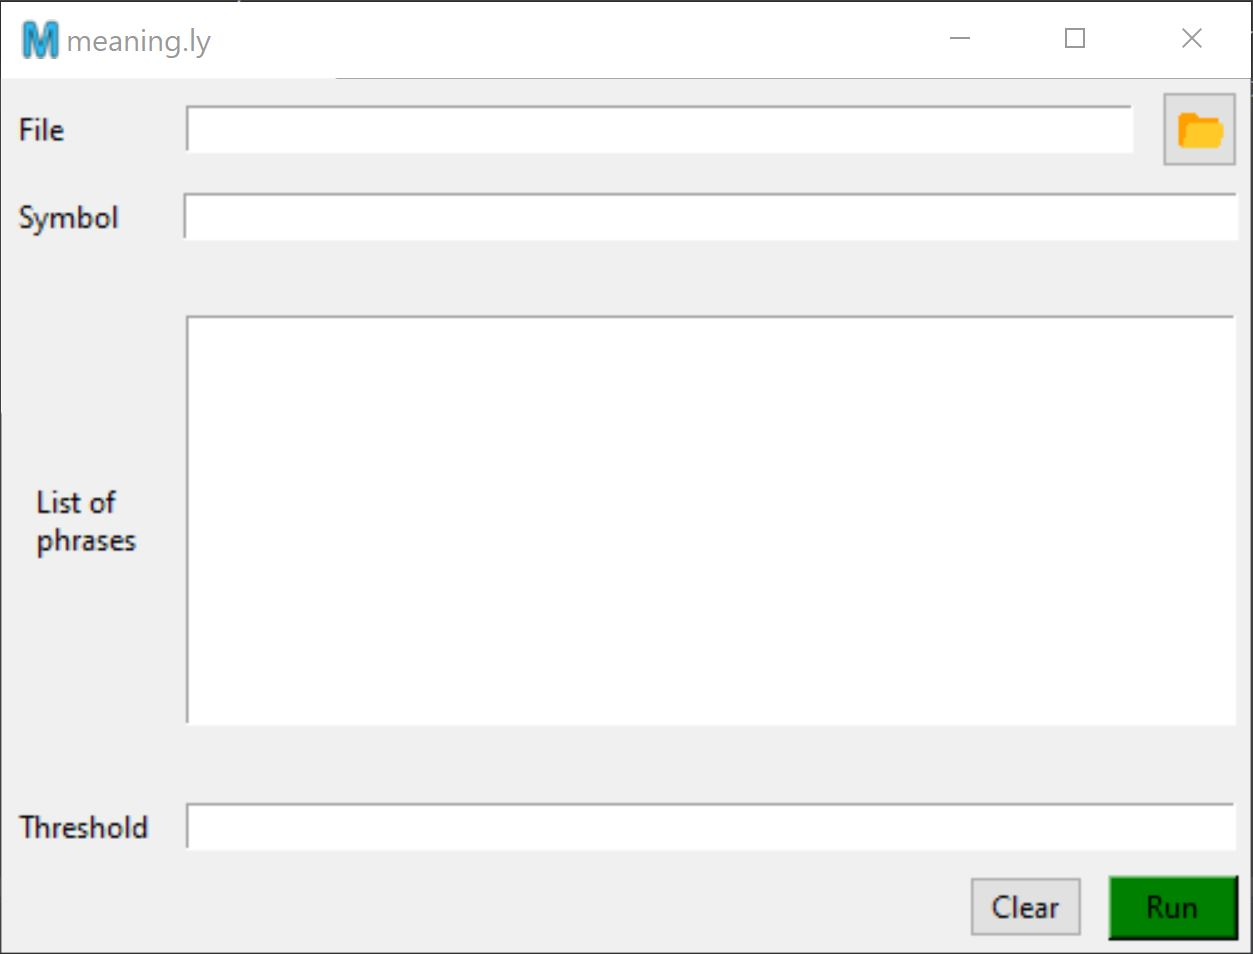
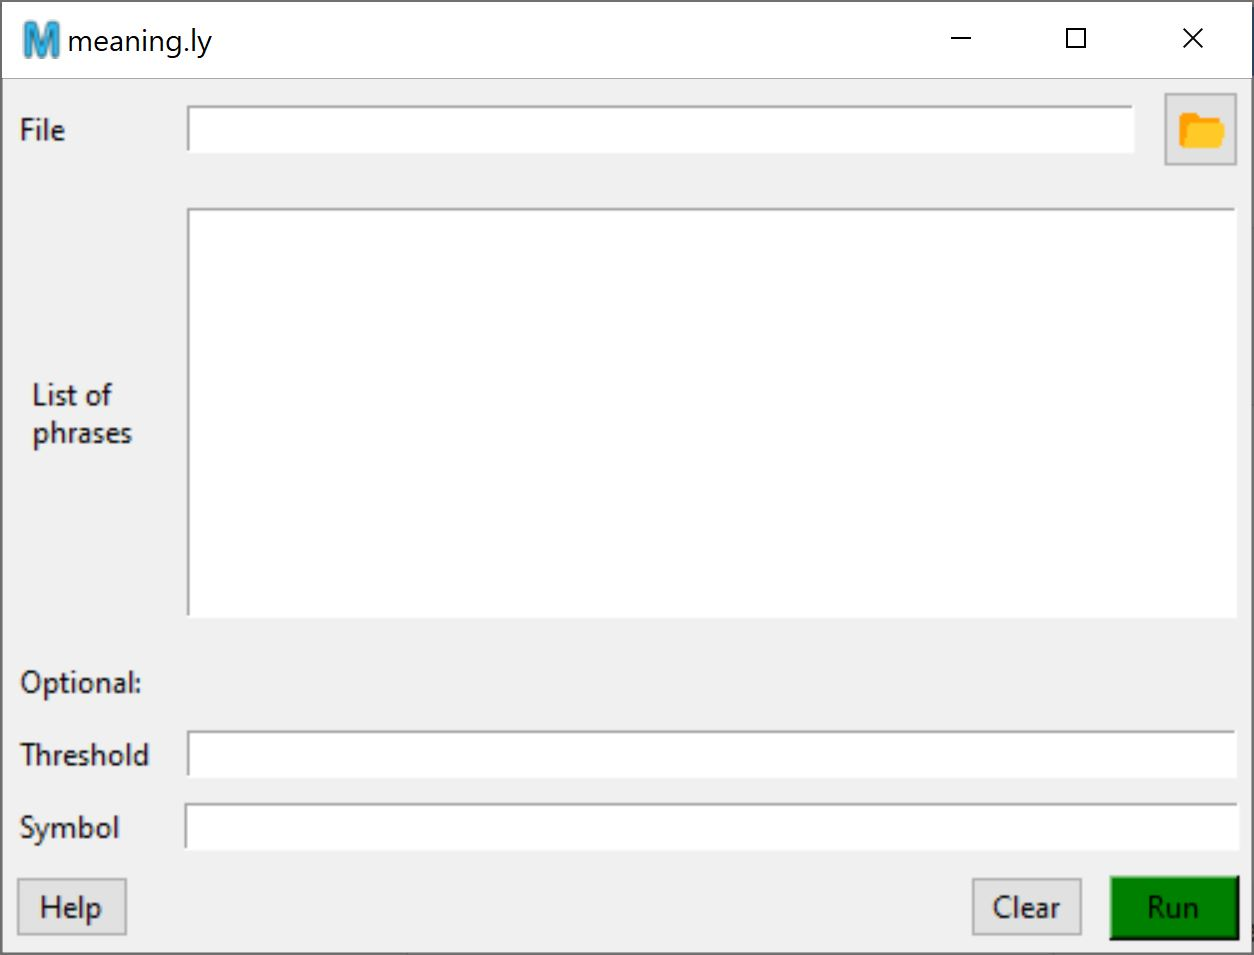
Updated README for new UI and added help menu to GUI

diff --git a/gui.py b/gui.py
@@ -1,5 +1,5 @@
 import tkinter as tk
-from tkinter import Tk, BOTH, X, LEFT, RIGHT, PhotoImage, filedialog, END, Message, RAISED
+from tkinter import Tk, BOTH, X, LEFT, RIGHT, PhotoImage, filedialog, END, Message
 from tkinter.ttk import Frame, Label, Button
 import meaningly as mn
 from PIL import ImageTk, Image
@@ -9,17 +9,41 @@ from PIL import ImageTk, Image
 class Splash(tk.Toplevel):
     def __init__(self, parent):
         tk.Toplevel.__init__(self, parent)
+        self.iconbitmap("assets/letterm.ico")
         self.title("Loading")
         loadphoto = ImageTk.PhotoImage(Image.open('assets/3147390.jpg').resize((400, 400)))
         image_label = tk.Label(self, image=loadphoto)
         image_label.image = loadphoto
         image_label.pack()
 
+        self.update()  # required to make window show before the program gets to the mainloop
 
-        ## required to make window show before the program gets to the mainloop
-        self.update()
 
-#Main app
+def popup_bonus():
+    win = tk.Toplevel()
+    win.geometry("300x300+120+120")
+    win.iconbitmap("assets/letterm.ico")
+    win.wm_title("Help")
+    win.resizable(False, False)
+    frame_popup = Frame(win)
+    frame_popup.pack(fill=BOTH)
+
+    help_text = "File: The path to the transcript file. The file must be a Word doc." \
+                "\n\nList of phrases: List of sentences to search the text for. Include " \
+                "all punctuation and start each new sentence one a new line. \n\nThreshold: When given a threshold, " \
+                "the program will only display sentences that are correlated to the input phrases above the given " \
+                "value. Default is 0. Must be a decimal value between 0 and 1.\n\nSymbol: Not implemented yet."
+
+    lbl_phrases = Message(frame_popup, text=help_text, width=280)
+    lbl_phrases.pack(side=LEFT, padx=(5, 9), pady=7)
+
+    frame_okay = Frame(win)
+    frame_okay.pack(side='bottom', fill=BOTH)
+    b = Button(frame_okay, text="Okay", command=win.destroy)
+    b.pack(pady=(5, 35))
+
+
+# Main app
 class UserInterface(Frame):
 
     def __init__(self):
@@ -40,8 +64,7 @@ class UserInterface(Frame):
     def set_file(self, filename):
         self.fileName = filename
 
-    # Function for clearing
-    # the inputs
+    # Function for clearing the inputs
     def clear(self):
         for entry in self.listOfEntries:
             if isinstance(entry, tk.Entry):
@@ -49,10 +72,9 @@ class UserInterface(Frame):
             else:
                 entry.delete('1.0', END)
             entry.config(highlightbackground='SystemButtonFace')
-        #self.fileName = None
+        # self.fileName = None
 
-    # Function for opening the
-    # file explorer window
+    # Function for opening the file explorer window
     def browseFiles(self, e):
         filename = filedialog.askopenfilename(initialdir="/",
                                               title="Select a File",
@@ -68,8 +90,8 @@ class UserInterface(Frame):
 
         # Assign the entries to their respective variables
         self.fileName = self.listOfEntries[0].get()
-        self.listOfPhrases = self.listOfEntries[2].get('1.0', END)
-        self.threshold = self.listOfEntries[3].get()
+        self.listOfPhrases = self.listOfEntries[1].get('1.0', END)
+        self.threshold = self.listOfEntries[2].get()
 
         # If there's no entry for file, show error. Otherwise clear any previous errors.
         if len(self.fileName) == 0:
@@ -79,22 +101,22 @@ class UserInterface(Frame):
 
         # If there's no entry for list of phrases, show error. Otherwise clear any previous errors.
         if len(self.listOfPhrases) == 1:
-            self.listOfEntries[2].config(highlightbackground='red')
+            self.listOfEntries[1].config(highlightbackground='red')
         else:
-            self.listOfEntries[2].config(highlightbackground='SystemButtonFace')
+            self.listOfEntries[1].config(highlightbackground='SystemButtonFace')
 
-        # TODO: Add an option to choose between positive correlation, negative correlation, or both.
+        # TODO: (Feature) Add an option to choose between positive correlation, negative correlation, or both.
         # If there's an entry for threshold, check to see if it's a number and if that number is between 0 and 1. If
         # there is no entry then set threshold to default value (0)
-        if not(len(self.threshold) == 0):
+        if not (len(self.threshold) == 0):
             try:
                 self.threshold = float(self.threshold)
-                if not(0 <= self.threshold <= 1):
-                    self.listOfEntries[3].config(highlightbackground='red')
+                if not (0 <= self.threshold <= 1):
+                    self.listOfEntries[2].config(highlightbackground='red')
                 else:
-                    self.listOfEntries[3].config(highlightbackground='SystemButtonFace')
+                    self.listOfEntries[2].config(highlightbackground='SystemButtonFace')
             except ValueError:
-                self.listOfEntries[3].config(highlightbackground='red')
+                self.listOfEntries[2].config(highlightbackground='red')
                 return
         else:
             self.threshold = 0
@@ -114,61 +136,75 @@ class UserInterface(Frame):
         self.master.title("meaning.ly")
         self.pack(fill=BOTH, expand=True)
 
-        frame1 = Frame(self)
-        frame1.pack(fill=X)
+        # File input
+        frame_file = Frame(self)
+        frame_file.pack(fill=X)
 
-        lbl1 = Label(frame1, text="File", width=9)
-        lbl1.pack(side=LEFT, padx=5, pady=5)
+        lbl_file = Label(frame_file, text="File", width=9)
+        lbl_file.pack(side=LEFT, padx=5, pady=5)
 
         photo = PhotoImage(file=r"assets/foldericon.png")
         photo2 = photo.subsample(25, 25)
 
-        entry1 = tk.Entry(frame1, highlightthickness=1)
+        entry_file = tk.Entry(frame_file, highlightthickness=1)
 
-        button = Button(frame1, image=photo2, width=6, command=lambda: self.browseFiles(entry1))
-        button.pack(side=RIGHT, padx=5, pady=5)
-        button.image = photo2
-        # button.grid(row=1, column=1)
-        entry1.pack(fill=X, padx=5, pady=5, expand=True)
-        self.listOfEntries.append(entry1)
+        button_file = Button(frame_file, image=photo2, width=6, command=lambda: self.browseFiles(entry_file))
+        button_file.pack(side=RIGHT, padx=5, pady=5)
+        button_file.image = photo2
+        entry_file.pack(fill=X, padx=5, pady=5, expand=True)
+        self.listOfEntries.append(entry_file)
 
-        frame2 = Frame(self)
-        frame2.pack(fill=X)
+        # List of phrases input
+        frame_phrases = Frame(self)
+        frame_phrases.pack(fill=X, expand=True)
 
-        lbl2 = Label(frame2, text="Symbol", width=9)
-        lbl2.pack(side=LEFT, padx=5, pady=5)
+        lbl_phrases = Message(frame_phrases, text="List of phrases", width=42)
+        lbl_phrases.pack(side=LEFT, padx=(5, 9), pady=7)
 
-        entry2 = tk.Entry(frame2)
-        entry2.pack(fill=X, padx=5, expand=True)
-        self.listOfEntries.append(entry2)
+        entry_phrases = tk.Text(frame_phrases, height=10, highlightthickness=1)
+        entry_phrases.pack(fill=BOTH, padx=5, pady=7)
+        self.listOfEntries.append(entry_phrases)
 
-        frame3 = Frame(self)
-        frame3.pack(fill=X, expand=True)
+        # Options label
+        frame_opt = Frame(self)
+        frame_opt.pack(fill=X)
 
-        lbl3 = Message(frame3, text="List of phrases", width=42)
-        lbl3.pack(side=LEFT, padx=7, pady=7)
+        lbl_opt = Label(frame_opt, text="Optional:", width=9)
+        lbl_opt.pack(side=LEFT, padx=5, pady=5)
 
-        entry3 = tk.Text(frame3, height=10, highlightthickness=1)
-        entry3.pack(fill=BOTH, padx=5, pady=7)
-        self.listOfEntries.append(entry3)
+        # Threshold input
+        frame_thresh = Frame(self)
+        frame_thresh.pack(fill=X)
 
-        frame4 = Frame(self)
-        frame4.pack(fill=X)
+        lbl_thresh = Label(frame_thresh, text="Threshold", width=9)
+        lbl_thresh.pack(side=LEFT, padx=(5, 5), pady=5)
 
-        lbl4 = Label(frame4, text="Threshold", width=9)
-        lbl4.pack(side=LEFT, padx=5, pady=5)
+        entry_thresh = tk.Entry(frame_thresh, highlightthickness=1)
+        entry_thresh.pack(fill=X, padx=5, expand=True)
+        self.listOfEntries.append(entry_thresh)
 
-        entry4 = tk.Entry(frame4, highlightthickness=1)
-        entry4.pack(fill=X, padx=5, expand=True)
-        self.listOfEntries.append(entry4)
+        # Symbol input
+        frame_symbol = Frame(self)
+        frame_symbol.pack(fill=X)
 
-        frame5 = Frame(self)
-        frame5.pack(fill=X)
+        lbl_symbol = Label(frame_symbol, text="Symbol", width=9)
+        lbl_symbol.pack(side=LEFT, padx=(5, 5), pady=5)
 
-        button_run = tk.Button(frame5, text='Run', width=6, bg='green', command=lambda: self.run_encoding(button_run))
+        entry_symbol = tk.Entry(frame_symbol)
+        entry_symbol.pack(fill=X, padx=5, expand=True)
+        self.listOfEntries.append(entry_symbol)
+
+        # Run & clear buttons
+        frame_buttons = Frame(self)
+        frame_buttons.pack(fill=X)
+
+        button_help = Button(frame_buttons, text='Help', width=6, command=popup_bonus)
+        button_help.pack(side=LEFT, padx=5, pady=5)
+
+        button_run = tk.Button(frame_buttons, text='Run', width=6, bg='green', command=lambda: self.run_encoding(button_run))
         button_run.pack(side=RIGHT, padx=5, pady=5)
 
-        button_clear = Button(frame5, text='Clear', width=6, command=self.clear)
+        button_clear = Button(frame_buttons, text='Clear', width=6, command=self.clear)
         button_clear.pack(side=RIGHT, padx=5, pady=5)
 
 

diff --git a/meaningly.py b/meaningly.py
@@ -57,12 +57,10 @@ def process_file(file, start_symbol):
                     filtered_text = para.text[i + 2:]
                     filtered_text = tokenizer.tokenize(filtered_text)
                     filtered_paras += filtered_text
-                    print(filtered_text)
                     break
         else:
             filtered_paras += tokenizer.tokenize(para.text)
 
-    print(filtered_paras)
     return filtered_paras
 
 
@@ -89,7 +87,6 @@ class Meaningly:
         sentence_embeddings_ = self.embed(sentences_)
         plot_similarity(text_, text_embeddings_, sentences_, sentence_embeddings_, threshold_)
 
-    # TODO: split sentence at every ellipses, period, exclamation mark, and question mark
     def process_run_plot(self, file, sentences_to_compare, user_threshold, start_symbol=':'):
         text = process_file(file, start_symbol)
         self.run_and_plot(text, sentences_to_compare, user_threshold)

diff --git a/README.md b/README.md
@@ -12,20 +12,20 @@ which represents the percentage above which the text sentences must be correlate
 ### File
 The path to the document with the transcript. _Must be a word doc_  
  
+### List of phrases
+List of sentences to search the text for. Include all punctuation
+and start each new sentence one a new line.
+
+### Threshold
+When given a threshold, the program will only display sentences that
+are correlated to the input phrases above the given value.
+_Default is 0. Must be a decimal value between 0 and 1._
+
 ### Symbol
 **Not Implemented yet.** ~~Symbol after which the actual text/dialogue starts. 
 Useful for parsing out names of speakers, etc.~~ Currently the program begins reading
 the sentence after a ":" (colon).
 
-### List of phrases
-The sentences that the user wants to search to text for similar ones to. Include all punctuation
-and start each new sentence one a new line.
-
-### Threshold
-The lowest percentage a text sentence can be correlated (positively or negatively) to one of the
-user entered sentences. The higher the threshold, the more similar a sentence must be in order to
- appear in the results. _Default is 0. Must be a decimal value between 0 and 1._
- 
  ## Example:  
  <img src="GUI2.JPG" alt="GUI Filled" width="500"/>
  
